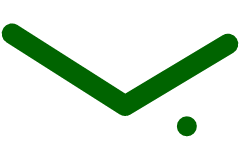
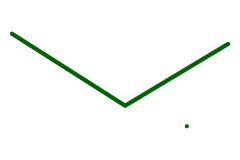
fix(thumbnails): render dense-page strokes as ink, not circles
The dot-collapse in render_pressure_stroke() compared stroke extent
against the *boosted* nib width. On a dense page the preview width floor
dominates the boost, so every letter-sized stroke measured smaller than
its own 20px "nib" and collapsed into a circle — a page of handwriting
became rows of merged circles. Classify against the unboosted nib
instead: shorter-than-its-own-pen-width is a property of the ink, not
the preview floor. Genuine taps still draw at the boosted width.

Also drop MIN_THUMBNAIL_STROKE_WIDTH 20 → 4 px (20px on a 240×160
preview merged dense ink into blobs even as ribbons) and regenerate the
committed goldens.

Existing thumbnails are cached per ink revision, so a migration flips
each page's current-revision thumbnail back to 'generating';
recover_pending re-enqueues them at startup and they re-render with the
fixed renderer.

Iteration 21, card #281.

Changed region(s): [[0.0, 0.125, 1.0, 0.75], [0.7292, 0.7188, 0.8458, 0.875]]

diff --git a/crates/server/src/thumbnails.rs b/crates/server/src/thumbnails.rs
@@ -13,7 +13,10 @@ use crate::AppState;
 const WIDTH: u32 = 240;
 const HEIGHT: u32 = 160;
 const PADDING: f32 = 12.0;
-const MIN_THUMBNAIL_STROKE_WIDTH: f32 = 20.0;
+// Preview-only width floor so heavily scaled-down ink stays visible without
+// turning into hairlines. Was 20.0, which on a full page of handwriting (small
+// scale, so the floor dominates every stroke) merged all ink into blobs.
+const MIN_THUMBNAIL_STROKE_WIDTH: f32 = 4.0;
 
 pub fn recover_pending(state: AppState) {
     let Some(pool) = state.db.clone() else {
@@ -326,8 +329,9 @@ fn draw_paper_texture(pixmap: &mut Pixmap, paper: Paper) {
 ///
 /// Marks use `Butt` caps (a `Round` cap would bulge each line's ends past the
 /// viewport edge) and the paper's own [`protocol::MIN_PAPER_MARK_DEVICE_WIDTH`]
-/// floor — emphatically *not* [`MIN_THUMBNAIL_STROKE_WIDTH`], which is 20 px and
-/// would turn a 240×160 preview solid blue.
+/// floor — emphatically *not* the ink preview floor
+/// [`MIN_THUMBNAIL_STROKE_WIDTH`], which would thicken the rules well past the
+/// hairlines they are on the live canvases.
 fn draw_paper(pixmap: &mut Pixmap, paper: Paper, scale: f32, offset_x: f32, offset_y: f32) {
     if paper == Paper::None || scale <= 0.0 || !scale.is_finite() {
         return;
@@ -434,7 +438,12 @@ fn render_pressure_stroke(
         .iter()
         .map(|point| nib_px(point.pressure))
         .fold(0.0_f32, f32::max);
-    if stroke.points.len() == 1 || extent * scale < max_nib {
+    // Classify against the *unboosted* nib: "is the stroke shorter than its own
+    // pen width" is a property of the ink, not of the preview floor. Comparing
+    // against the boosted nib collapsed every letter-sized stroke on a dense
+    // page (where the floor dominates) into a circle. The dot itself still
+    // renders at the boosted width so genuine taps stay visible.
+    if stroke.points.len() == 1 || extent * scale < max_nib / boost {
         let center_x = ((min_x + max_x) / 2.0) as f32;
         let center_y = ((min_y + max_y) / 2.0) as f32;
         if let Some(dot) = PathBuilder::from_circle(center_x, center_y, max_nib / (2.0 * scale)) {
@@ -547,8 +556,8 @@ mod tests {
         .expect("thumbnail should render");
         let pixmap = Pixmap::decode_png(&bytes).expect("thumbnail should decode");
         let (min_x, max_x, min_y, max_y) = ink_bounds(&pixmap);
-        assert!((18..=22).contains(&(max_x - min_x + 1)));
-        assert!((18..=22).contains(&(max_y - min_y + 1)));
+        assert!((3..=6).contains(&(max_x - min_x + 1)));
+        assert!((3..=6).contains(&(max_y - min_y + 1)));
         assert!((min_x + max_x).abs_diff(WIDTH - 1) <= 1);
         assert!((min_y + max_y).abs_diff(HEIGHT - 1) <= 1);
     }
@@ -640,46 +649,12 @@ mod tests {
         let pixmap = Pixmap::decode_png(&bytes).expect("thumbnail should decode");
         let (min_x, max_x, min_y, max_y) = ink_bounds(&pixmap);
         // A visible, roughly round blob (not an empty thumbnail).
-        assert!((max_x - min_x + 1) >= 10, "tap dot has visible width");
-        assert!((max_y - min_y + 1) >= 10, "tap dot has visible height");
+        assert!((max_x - min_x + 1) >= 3, "tap dot has visible width");
+        assert!((max_y - min_y + 1) >= 3, "tap dot has visible height");
     }
 
-    /// A genuine short **diagonal** v2 stroke (Δx ≈ Δy, each individually
-    /// under the nib width, but the true diagonal distance over it) must
-    /// still render as an elongated line — not collapse to a dot/circle via
-    /// the `max(Δx, Δy)` extent heuristic.
-    #[test]
-    fn pressure_stroke_short_diagonal_stays_a_line() {
-        let mut pixmap = Pixmap::new(WIDTH, HEIGHT).expect("thumbnail pixmap should allocate");
-        pixmap.fill(Color::WHITE);
-        let mut paint = Paint::default();
-        paint.set_color_rgba8(0, 0, 0, 0xff);
-        let stroke = Stroke {
-            id: "diag".to_string(),
-            style: StrokeStyle::default_solid_round_pressure(),
-            points: vec![
-                StrokePoint {
-                    x: 0.0,
-                    y: 0.0,
-                    t: 0,
-                    pressure: Some(1.0),
-                },
-                StrokePoint {
-                    x: 16.0,
-                    y: 16.0,
-                    t: 8,
-                    pressure: Some(1.0),
-                },
-            ],
-        };
-        render_pressure_stroke(
-            &mut pixmap,
-            &stroke,
-            &paint,
-            Transform::from_scale(1.0, 1.0),
-            1.0,
-        );
-
+    /// Ink bounds of everything drawn on a raw pixmap (any non-white pixel).
+    fn drawn_bounds(pixmap: &Pixmap) -> (u32, u32, u32, u32) {
         let mut min_x = WIDTH;
         let mut max_x = 0;
         let mut min_y = HEIGHT;
@@ -695,19 +670,133 @@ mod tests {
                 }
             }
         }
-        assert!(min_x <= max_x, "diagonal stroke should render some ink");
+        assert!(min_x <= max_x, "expected some ink to be drawn");
+        (min_x, max_x, min_y, max_y)
+    }
+
+    /// A genuine short **diagonal** v2 stroke (Δx and Δy each individually
+    /// under the nib width, but the true diagonal distance over it) must
+    /// still render as an elongated line — not collapse to a dot/circle via
+    /// the old `max(Δx, Δy)` extent heuristic.
+    #[test]
+    fn pressure_stroke_short_diagonal_stays_a_line() {
+        let mut pixmap = Pixmap::new(WIDTH, HEIGHT).expect("thumbnail pixmap should allocate");
+        pixmap.fill(Color::WHITE);
+        let mut paint = Paint::default();
+        paint.set_color_rgba8(0, 0, 0, 0xff);
+        // Δx = Δy = 3 world units at scale 1: each axis alone is under the 4px
+        // full-pressure nib, the √2 diagonal (≈4.24) is over it.
+        let stroke = Stroke {
+            id: "diag".to_string(),
+            style: StrokeStyle::default_solid_round_pressure(),
+            points: vec![
+                StrokePoint {
+                    x: 20.0,
+                    y: 20.0,
+                    t: 0,
+                    pressure: Some(1.0),
+                },
+                StrokePoint {
+                    x: 23.0,
+                    y: 23.0,
+                    t: 8,
+                    pressure: Some(1.0),
+                },
+            ],
+        };
+        render_pressure_stroke(
+            &mut pixmap,
+            &stroke,
+            &paint,
+            Transform::from_scale(1.0, 1.0),
+            1.0,
+        );
+
+        let (min_x, max_x, min_y, max_y) = drawn_bounds(&pixmap);
         let width = max_x - min_x + 1;
         let height = max_y - min_y + 1;
-        // The old `max(Δx, Δy)` heuristic wrongly collapsed this stroke to a
-        // ~20px circle (nib diameter); the real diagonal segment plus round
-        // caps spans further in both axes.
+        // A collapsed dot spans just the 4px nib; the real segment plus its
+        // round caps spans the 3px travel on top of that in both axes.
         assert!(
-            width > 25,
+            width >= 6,
             "diagonal stroke should render as a line, not a dot (width={width})"
         );
         assert!(
-            height > 25,
+            height >= 6,
             "diagonal stroke should render as a line, not a dot (height={height})"
+        );
+    }
+
+    /// On a dense page (large world extent, so the preview scale is small and
+    /// the width floor dominates), letter-sized strokes must still render as
+    /// short lines. The old classification compared the stroke extent against
+    /// the *boosted* nib, which collapsed every such stroke into a ~20px
+    /// circle — a full page of handwriting became rows of circles.
+    #[test]
+    fn dense_page_short_strokes_stay_lines_not_circles() {
+        // A long stroke across the top fixes the page bounds (scale ≈ 0.14);
+        // a letter-sized horizontal stroke sits alone in the bottom half.
+        let long = Stroke {
+            id: "long".to_string(),
+            style: StrokeStyle::default_solid_round_pressure(),
+            points: (0..=10)
+                .map(|i| StrokePoint {
+                    x: i as f64 * 150.0,
+                    y: 0.0,
+                    t: i as i64,
+                    pressure: Some(0.7),
+                })
+                .collect(),
+        };
+        let short = Stroke {
+            id: "short".to_string(),
+            style: StrokeStyle::default_solid_round_pressure(),
+            points: vec![
+                StrokePoint {
+                    x: 700.0,
+                    y: 800.0,
+                    t: 0,
+                    pressure: Some(0.7),
+                },
+                StrokePoint {
+                    x: 730.0,
+                    y: 800.0,
+                    t: 8,
+                    pressure: Some(0.7),
+                },
+            ],
+        };
+        let bytes = render(Paper::None, &[long, short]).expect("thumbnail should render");
+        let pixmap = Pixmap::decode_png(&bytes).expect("thumbnail should decode");
+
+        // Bounds of the short stroke only: scan the bottom half of the preview.
+        let mut min_x = WIDTH;
+        let mut max_x = 0;
+        let mut min_y = HEIGHT;
+        let mut max_y = 0;
+        for y in HEIGHT / 2..HEIGHT {
+            for x in 0..WIDTH {
+                let pixel = pixmap.pixel(x, y).expect("pixel should exist");
+                if pixel.green() > pixel.red() && pixel.green() > pixel.blue() {
+                    min_x = min_x.min(x);
+                    max_x = max_x.max(x);
+                    min_y = min_y.min(y);
+                    max_y = max_y.max(y);
+                }
+            }
+        }
+        assert!(min_x <= max_x, "short stroke should render some ink");
+        let width = max_x - min_x + 1;
+        let height = max_y - min_y + 1;
+        // The old collapse drew a ~20px circle here; the fixed renderer draws a
+        // floored-width line: a few px tall, wider than tall.
+        assert!(
+            height <= 8,
+            "short stroke should stay a thin line, not a circle (height={height})"
+        );
+        assert!(
+            width > height,
+            "short stroke should be elongated, not round (width={width} height={height})"
         );
     }
 
